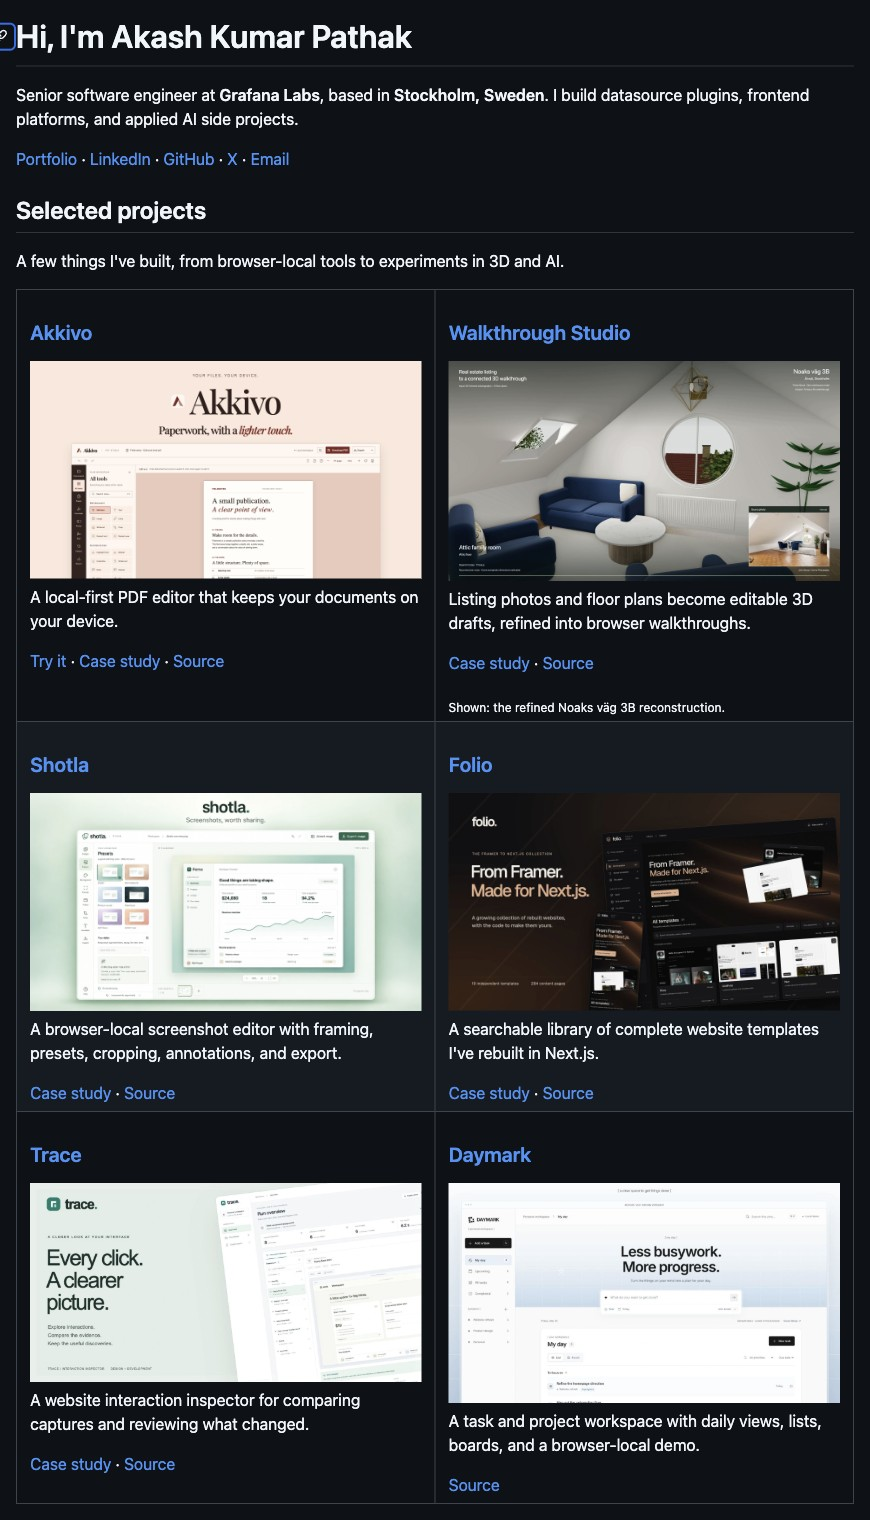
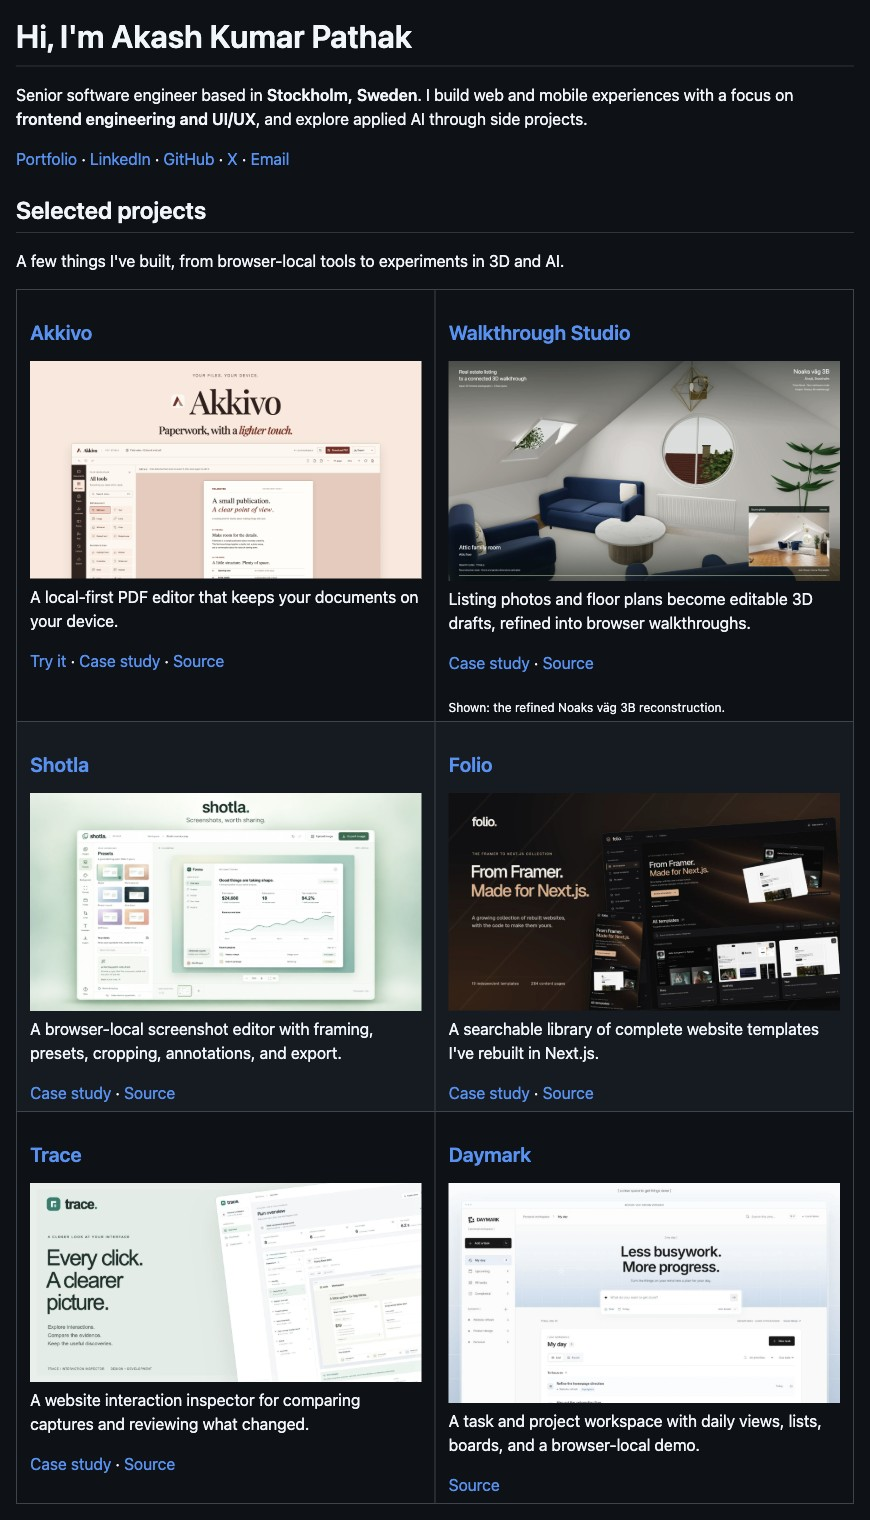
docs: refresh profile previews after intro update

Changed region(s): [[0.031, 0.0618, 0.7759, 0.0928], [0.8069, 0.0618, 0.931, 0.0928], [0.0, 0.0, 0.031, 0.0309]]

diff --git a/assets/README.md b/assets/README.md
@@ -21,7 +21,7 @@ The square portfolio cover is generated presentation artwork. It is not used in 
 
 ## Review screenshots
 
-`previews/gallery-dark.jpg` shows the six-card gallery as rendered by GitHub. `previews/mobile-light.jpg` shows the complete repository page at a 390px phone width. Both were captured on 2 October 2026 for the profile README PR. These are browser screenshots, not mockups, and are not loaded by the profile README. Light-theme testing used GitHub's own theme stylesheet with a temporary page-only override; no account preferences were changed.
+`previews/gallery-dark.jpg` shows the six-card gallery as rendered by GitHub. `previews/mobile-light.jpg` shows the complete repository page at phone width. Both were captured on 2 October 2026 for the profile README PR. These are browser screenshots, not mockups, and are not loaded by the profile README. Light-theme testing used GitHub's own theme stylesheet with a temporary page-only override; no account preferences were changed.
 
 ## Updating the gallery
 
